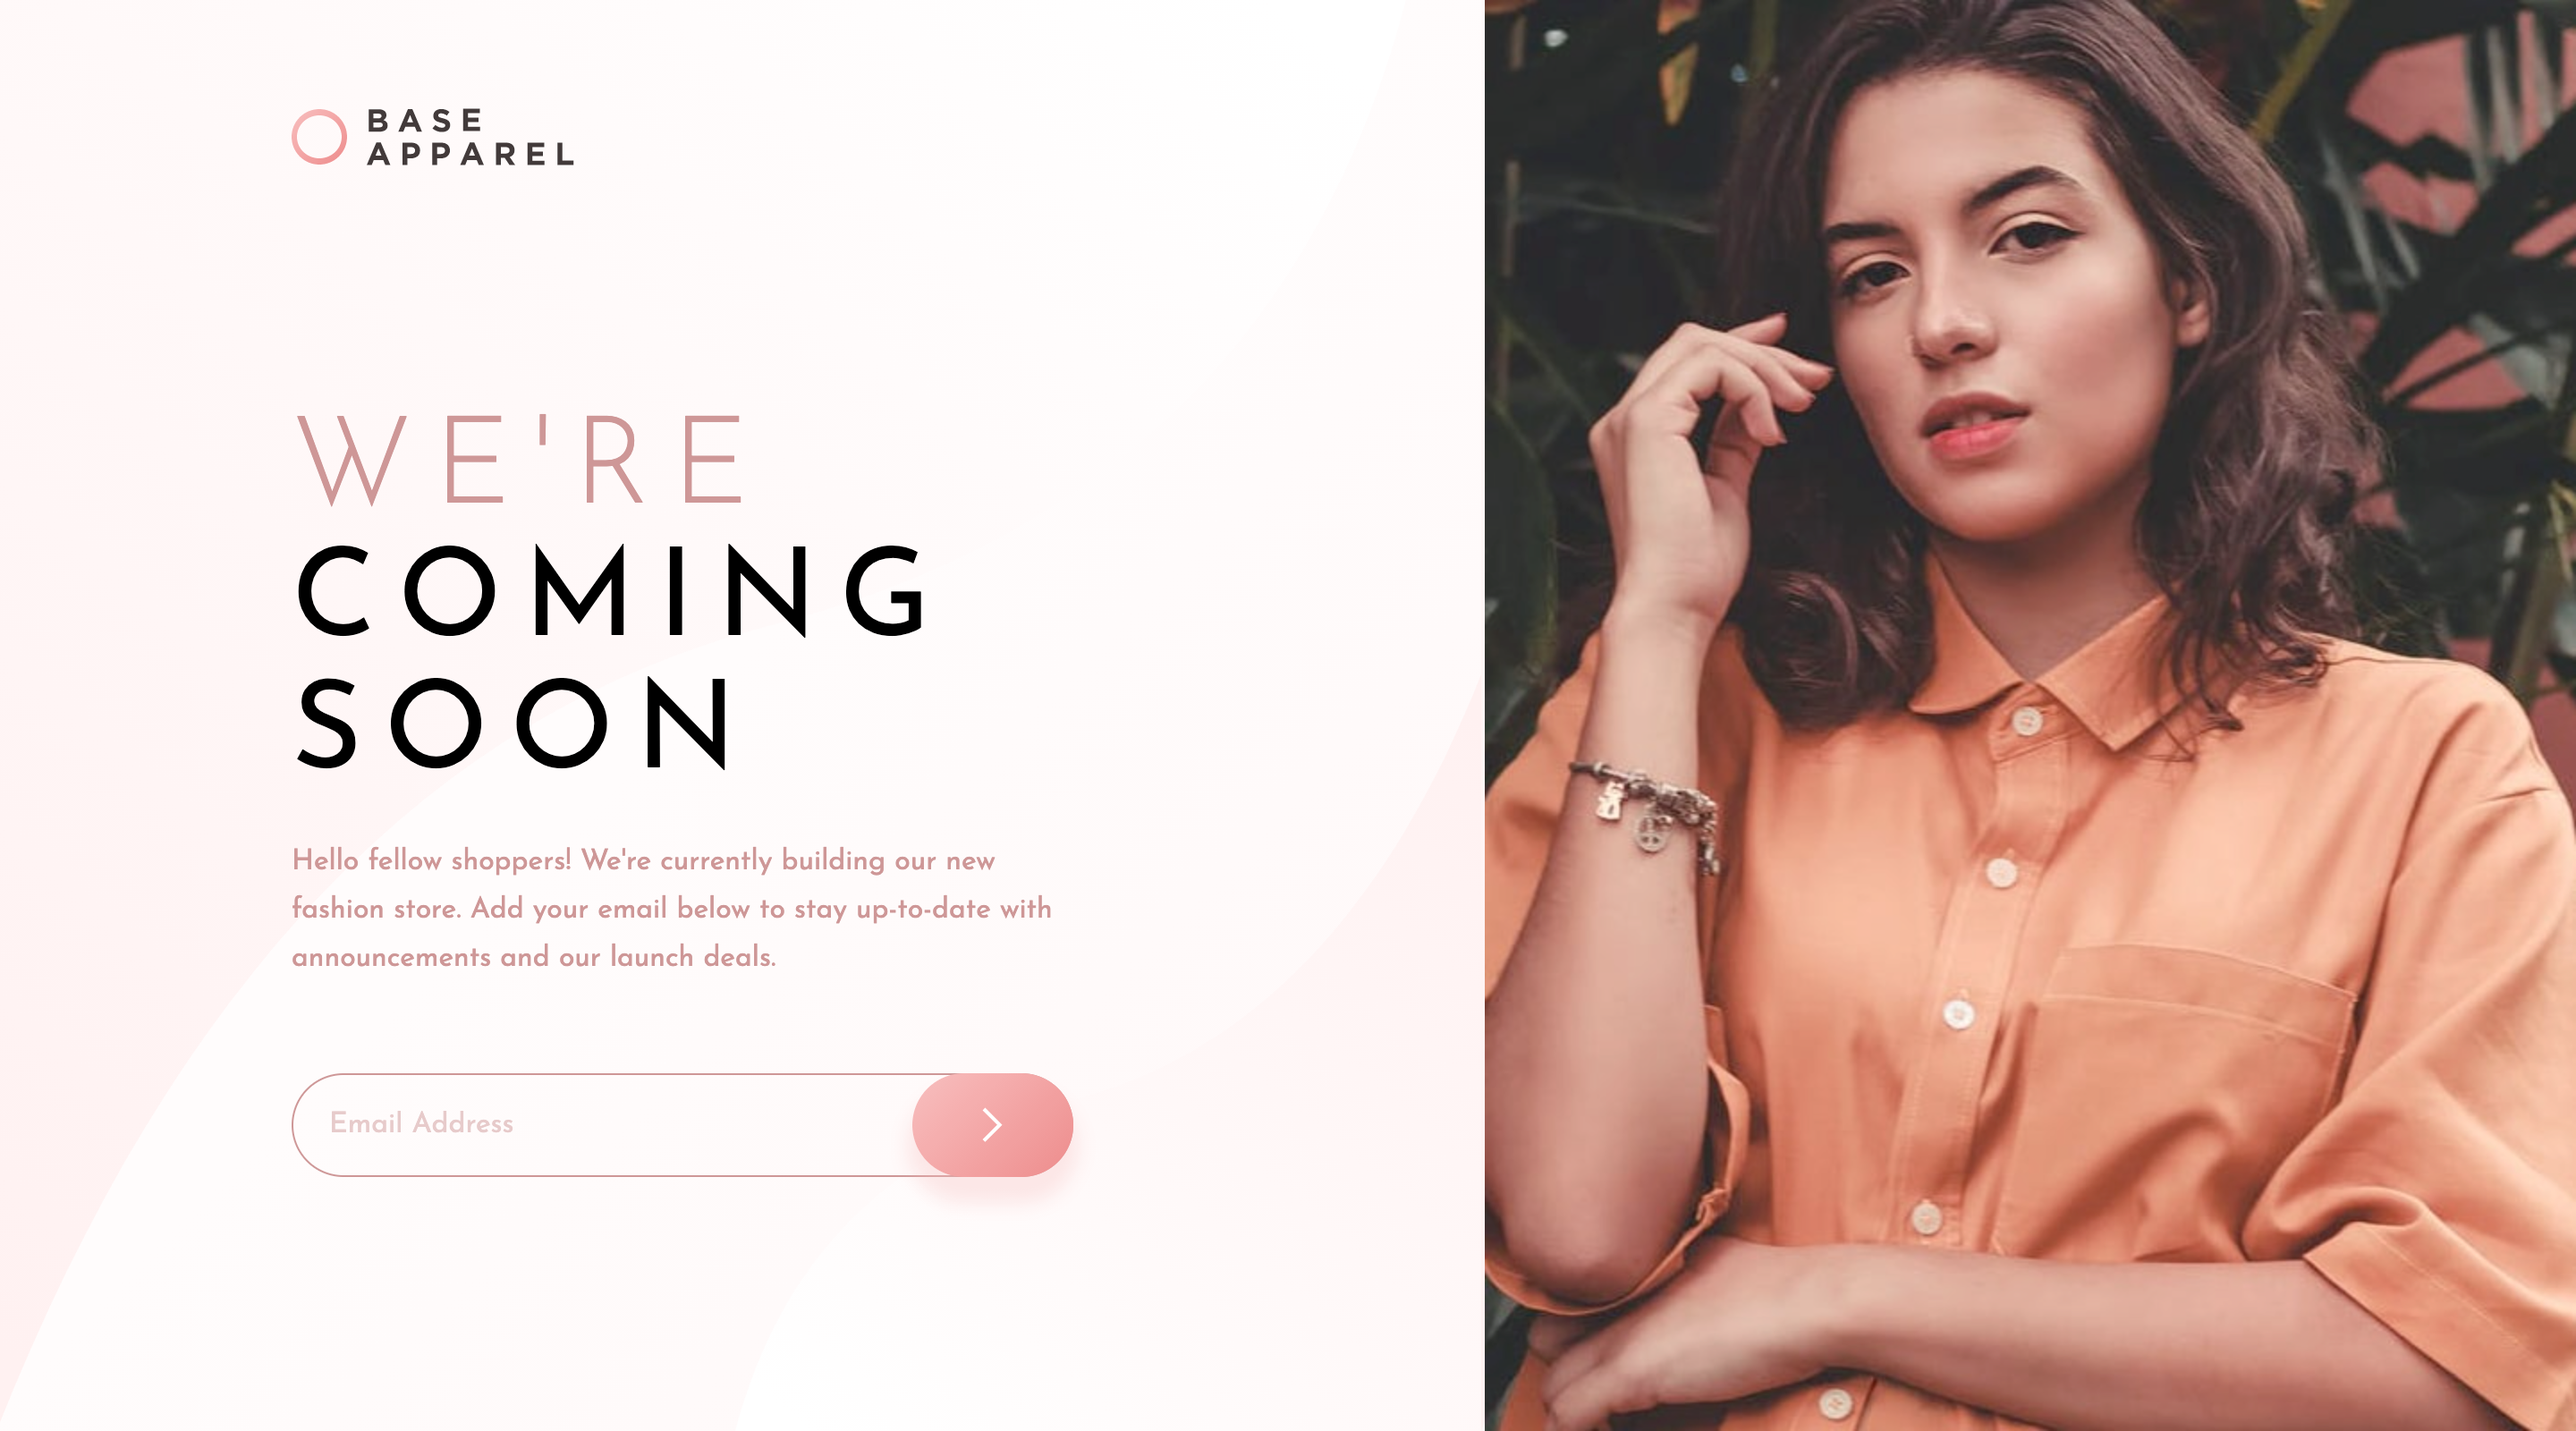
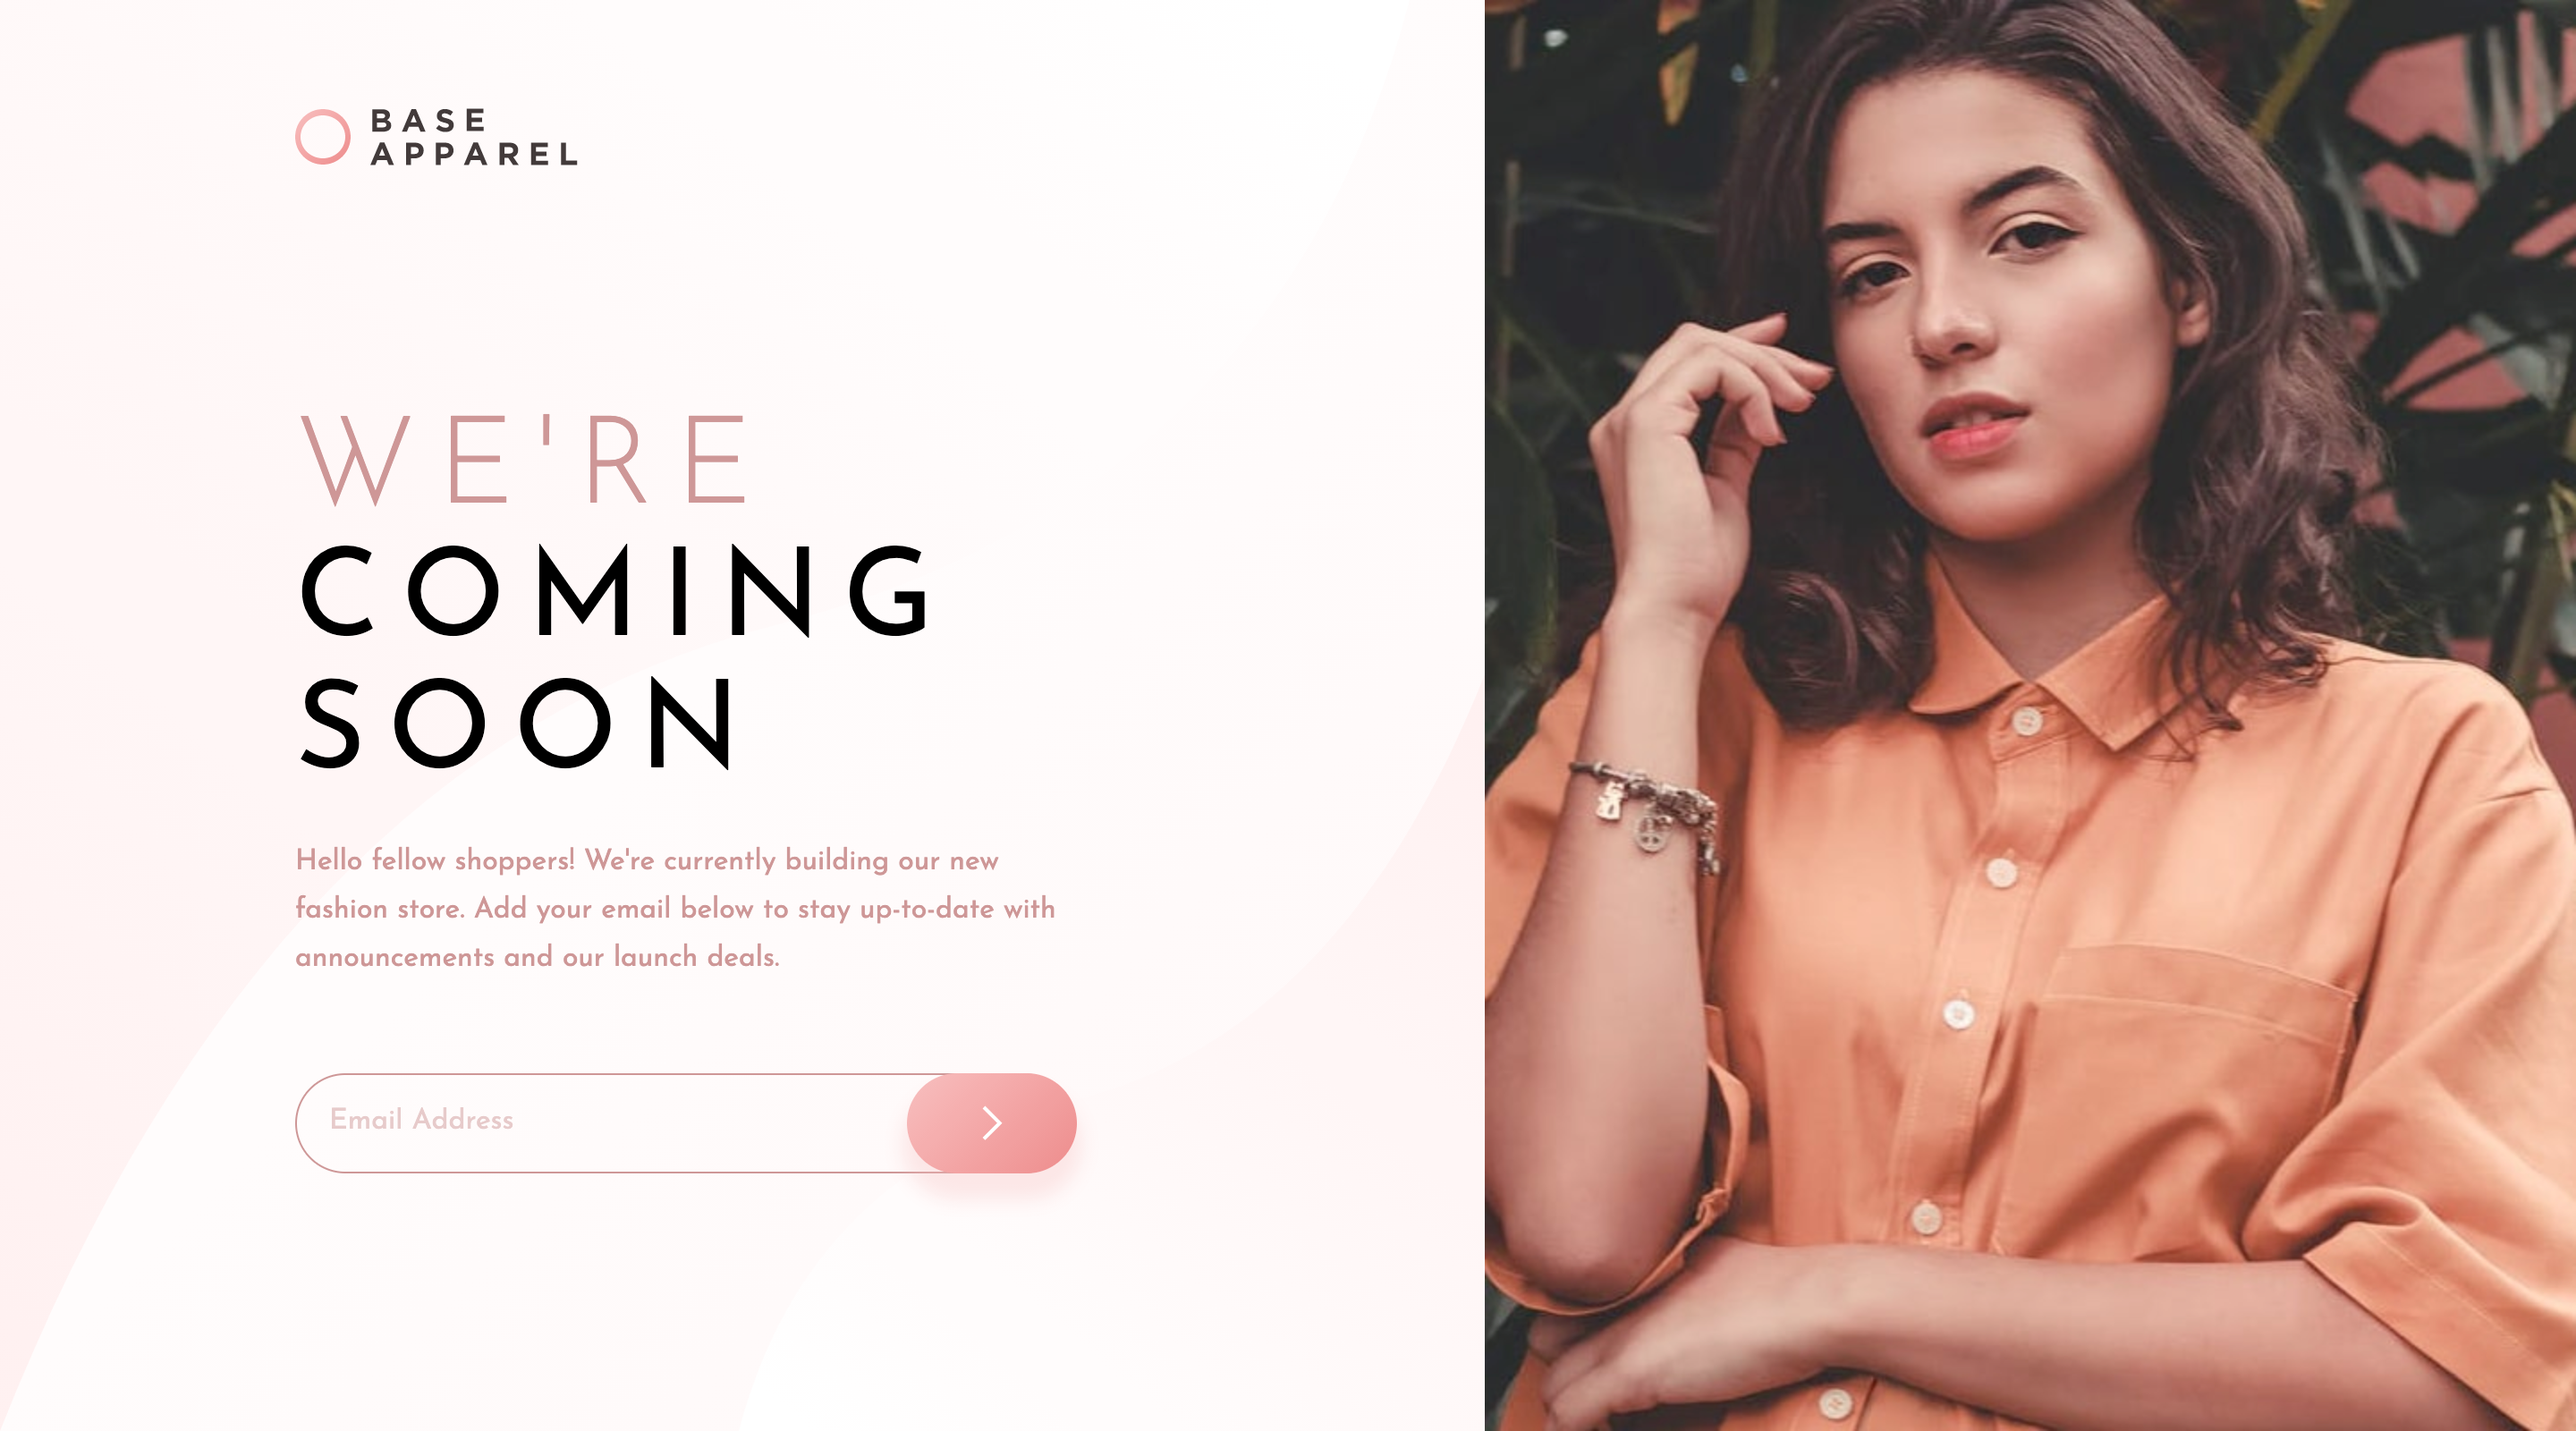
Fix height and active state of input field on desktop design

diff --git a/styles.css b/styles.css
@@ -96,11 +96,8 @@ main .content .arrow_icon {
   cursor: pointer;
 }
 main .content .arrow_icon:hover {
-  background: linear-gradient(
-    135deg,
-    hsla(0, 80%, 86%, 0.52),
-    hsla(0, 74%, 74%, 0.52)
-  );
+  filter: brightness(115%);
+  box-shadow: 0 12px 10px 3px hsla(0, 80%, 86%, 0.856);
 }
 main .content .hide {
   display: none;
@@ -177,15 +174,15 @@ main .content .error_message p {
   }
   main .content input {
     width: 275px;
-    padding: 20px 140px 20px 20px;
+    padding: 18px 140px 20px 18px;
     border-radius: 30px;
     font-size: 16px;
   }
   main .content .arrow_icon {
-    height: 58px;
-    width: 90px;
-    margin-left: 347px;
-    margin-top: -58px;
+    height: 56px;
+    width: 95px;
+    margin-left: 342px;
+    margin-top: -56px;
   }
   main .content .error_message img {
     height: initial;
